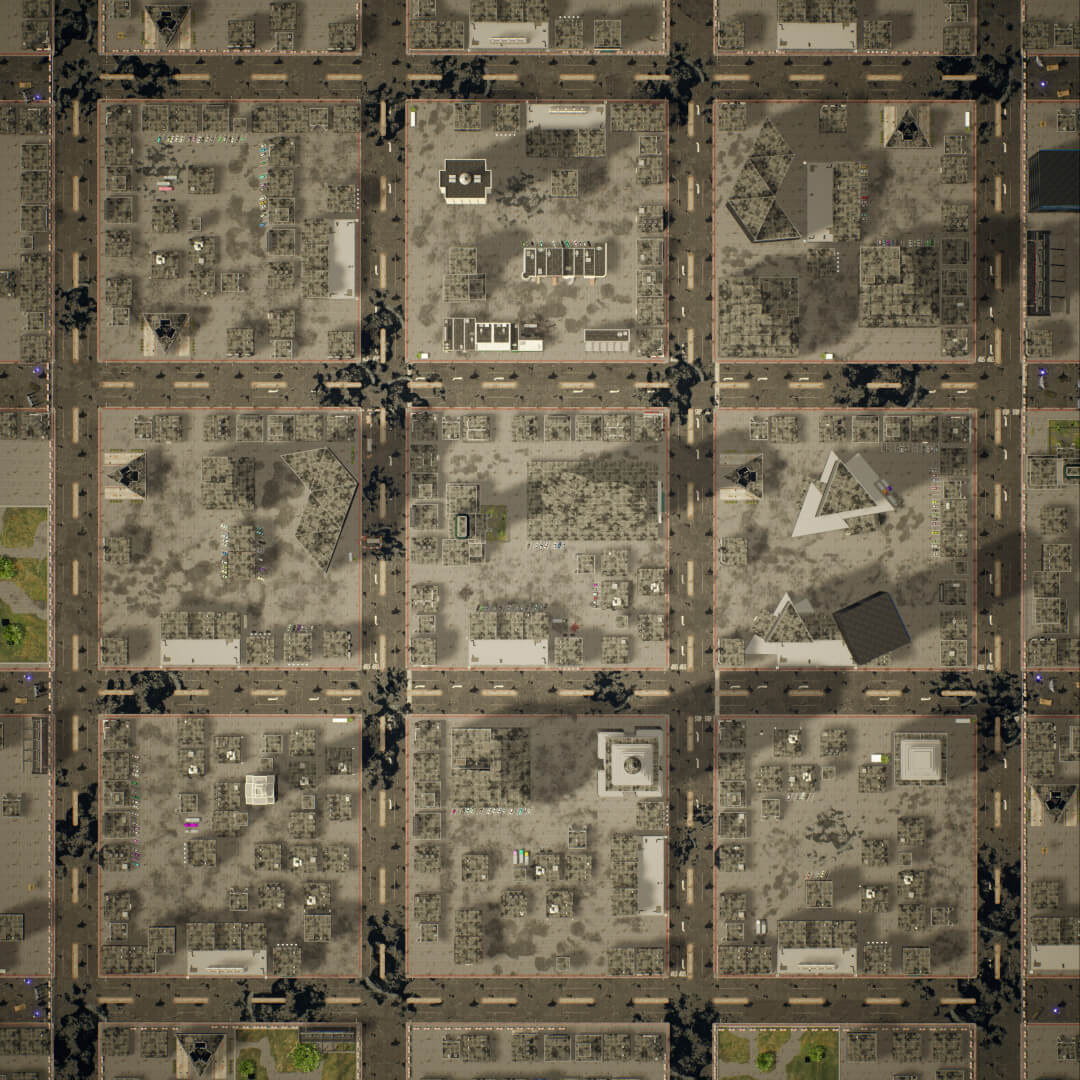
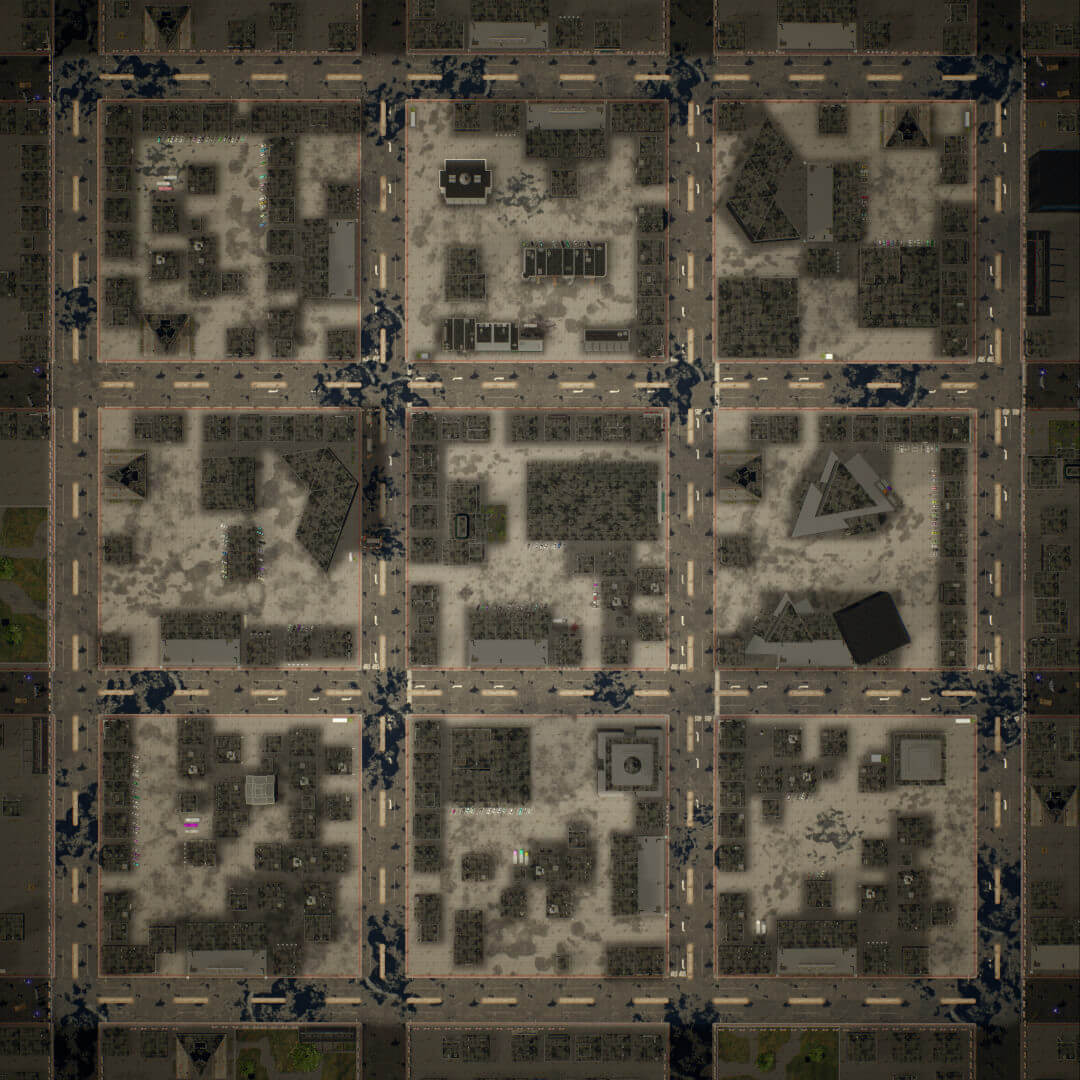
Mini map shadowed
New mini map images with outside nav area dimmed.
Intro and outro UI design changes.

diff --git a/Source/Supremacy/Public/MapDetails.h b/Source/Supremacy/Public/MapDetails.h
@@ -49,7 +49,7 @@ static const TMap<FString, FMapDetails> SupremacyMapDetails = {
     "DesertCity",
     {
       "DesertCity",
-      "https://ninjasoftware-static-media.s3.ap-southeast-2.amazonaws.com/supremacy/maps/desert_city.jpg",
+      "https://ninjasoftware-static-media.s3.ap-southeast-2.amazonaws.com/supremacy/maps/1080/DesertCity.jpg",
       1080, 1080,
       30, 30,
       -36000, -38000,
@@ -60,7 +60,7 @@ static const TMap<FString, FMapDetails> SupremacyMapDetails = {
     "ArcticBay",
     {
       "ArcticBay",
-      "https://ninjasoftware-static-media.s3.ap-southeast-2.amazonaws.com/supremacy/maps/arctic_bay.jpg",
+      "https://ninjasoftware-static-media.s3.ap-southeast-2.amazonaws.com/supremacy/maps/1080/ArcticBay.jpg",
       1080, 1080,
       55, 55,
       -40000, -39000,
@@ -71,7 +71,7 @@ static const TMap<FString, FMapDetails> SupremacyMapDetails = {
     "UrbanBuildings",
     {
       "UrbanBuildings",
-      "https://ninjasoftware-static-media.s3.ap-southeast-2.amazonaws.com/supremacy/maps/UrbanBuildings-v2.jpg",
+      "https://ninjasoftware-static-media.s3.ap-southeast-2.amazonaws.com/supremacy/maps/1080/UrbanBuildings.jpg",
       1080, 1080,
       62, 62,
       -110500, -152500,
@@ -82,7 +82,7 @@ static const TMap<FString, FMapDetails> SupremacyMapDetails = {
     "NeoTokyo",
     {
       "NeoTokyo",
-      "https://ninjasoftware-static-media.s3.ap-southeast-2.amazonaws.com/supremacy/maps/NeoTokyo.jpg",
+      "https://ninjasoftware-static-media.s3.ap-southeast-2.amazonaws.com/supremacy/maps/1080/NeoTokyo.jpg",
       1080, 1080,
       34, 34,
       -33550, -34450,
@@ -93,7 +93,7 @@ static const TMap<FString, FMapDetails> SupremacyMapDetails = {
     "CloudKu",
     {
       "CloudKu",
-      "https://ninjasoftware-static-media.s3.ap-southeast-2.amazonaws.com/supremacy/maps/cloud_ku.png",
+      "https://ninjasoftware-static-media.s3.ap-southeast-2.amazonaws.com/supremacy/maps/1080/CloudKu.jpg",
       1080, 1080,
       45,  45,
       -45000, -45000,
@@ -104,7 +104,7 @@ static const TMap<FString, FMapDetails> SupremacyMapDetails = {
     "TheHive",
     {
       "TheHive",
-      "https://ninjasoftware-static-media.s3.ap-southeast-2.amazonaws.com/supremacy/maps/the_hive.png",
+      "https://ninjasoftware-static-media.s3.ap-southeast-2.amazonaws.com/supremacy/maps/1080/TheHive.jpg",
       1080, 1080,
       40,  40,
       -20000, -59700,
@@ -115,7 +115,7 @@ static const TMap<FString, FMapDetails> SupremacyMapDetails = {
     "AokigaharaForest",
     {
       "AokigaharaForest",
-      "https://ninjasoftware-static-media.s3.ap-southeast-2.amazonaws.com/supremacy/maps/AokigaharaForest.jpg",
+      "https://ninjasoftware-static-media.s3.ap-southeast-2.amazonaws.com/supremacy/maps/1080/AokigaharaForest.jpg",
       1080, 1080,
       46, 46,
       -51000, -51000,
@@ -126,7 +126,7 @@ static const TMap<FString, FMapDetails> SupremacyMapDetails = {
     "CityBlockArena",
     {
       "CityBlockArena",
-      "https://ninjasoftware-static-media.s3.ap-southeast-2.amazonaws.com/supremacy/maps/CityBlockArena.jpg",
+      "https://ninjasoftware-static-media.s3.ap-southeast-2.amazonaws.com/supremacy/maps/1080/CityBlockArena.jpg",
       1080, 1080,
       34, 34,
       -34000, -28000,
@@ -137,7 +137,7 @@ static const TMap<FString, FMapDetails> SupremacyMapDetails = {
     "RedMountainMine",
     {
       "RedMountainMine",
-      "https://ninjasoftware-static-media.s3.ap-southeast-2.amazonaws.com/supremacy/maps/RedMountainMine.jpg",
+      "https://ninjasoftware-static-media.s3.ap-southeast-2.amazonaws.com/supremacy/maps/1080/RedMountainMine.jpg",
       1080, 1080,
       72, 72,
       -54000, 0,
